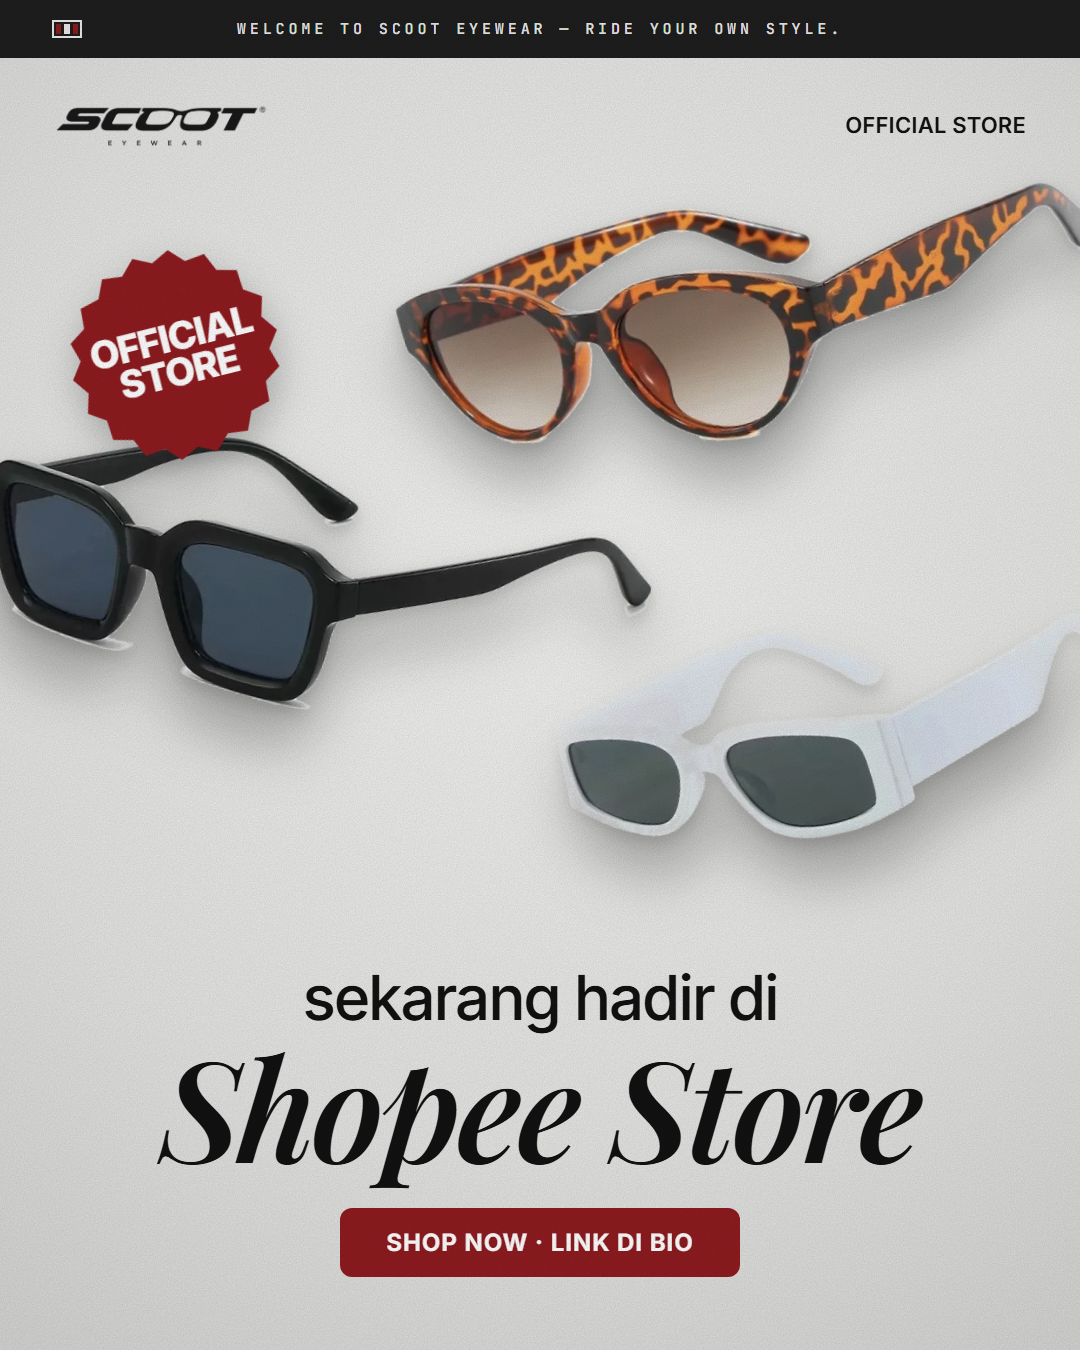
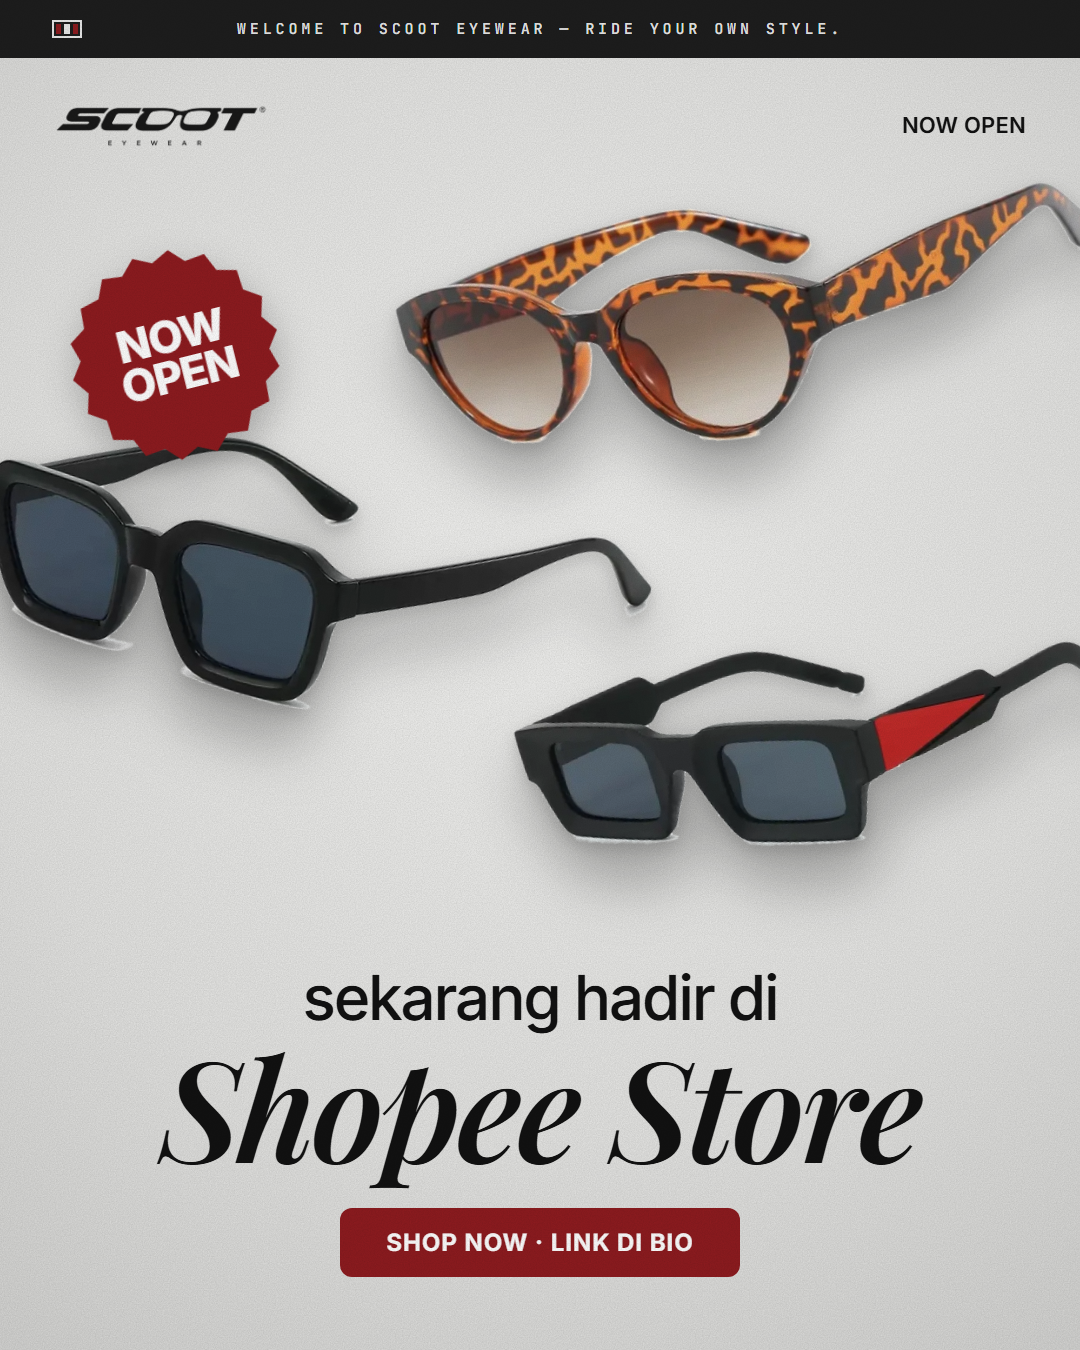
Shopee store is live: link it on the site and in the posts
- Header, footer and contact page link to the Shopee store.
- Product pages get a "Beli di Shopee" button pointing at that model's
  listing (six models live so far), falling back to the store.
- Where-to-shop post now says Shopee is open; the Shopee post drops the
  "Official Store" badge (not a Shopee Mall shop) and shows only models
  that are actually listed.

Changed region(s): [[0.4583, 0.4667, 1.0, 0.6533], [0.0611, 0.2178, 0.2444, 0.3111], [0.7944, 0.0622, 0.9472, 0.1244]]

diff --git a/frontend/src/pages/Contact.tsx b/frontend/src/pages/Contact.tsx
@@ -2,6 +2,8 @@ import { ArrowRight, Mail, MessageCircle } from "lucide-react";
 import { useState } from "react";
 import type { FormEvent } from "react";
 import { toast } from "sonner";
+import { SiShopee } from "@icons-pack/react-simple-icons";
+import { SHOPEE_STORE_URL } from "@/lib/catalog";
 import SiteFooter from "@/components/SiteFooter";
 import SiteHeader from "@/components/SiteHeader";
 
@@ -9,5 +11,5 @@ export default function Contact() {
   const [name, setName] = useState("");
   const [message, setMessage] = useState("");
   const submit = (event: FormEvent<HTMLFormElement>) => { event.preventDefault(); if (!name.trim() || !message.trim()) { toast.error("Lengkapi nama dan pesan terlebih dahulu."); return; } window.open(`https://wa.me/6285156581959?text=${encodeURIComponent(`Halo SCOOT EYEWEAR, saya ${name}. ${message}`)}`, "_blank", "noopener,noreferrer"); };
-  return <div className="bg-[#f9f9f7] text-black" data-testid="contact-page"><SiteHeader /><main><section className="border-b border-black px-6 py-16 sm:px-12 lg:px-20 lg:py-28" data-testid="contact-hero"><p className="font-mono text-[10px] font-bold uppercase tracking-[0.2em] text-[#c8102e]" data-testid="contact-eyebrow">Ada yang ingin ditanyakan?</p><h1 className="mt-6 max-w-4xl font-heading text-6xl font-bold uppercase leading-[0.8] tracking-[-0.1em] sm:text-9xl" data-testid="contact-heading">Kami siap<br />membantu.</h1><p className="mt-8 max-w-xl text-lg leading-relaxed text-[#666]" data-testid="contact-description">Hubungi kami untuk pertanyaan produk, custom print, pesanan grosir, atau rekomendasi model.</p></section><section className="grid gap-12 border-b border-black px-6 py-16 sm:px-12 lg:grid-cols-[0.8fr_1.2fr] lg:px-20 lg:py-24"><div className="space-y-8" data-testid="contact-channels"><a href="https://wa.me/6285156581959" target="_blank" rel="noreferrer" className="flex items-start gap-4 border-t border-black pt-5" data-testid="contact-whatsapp-link"><MessageCircle size={20} /><span><strong className="block font-heading text-2xl uppercase tracking-[-0.05em]">WhatsApp</strong><span className="mt-2 block text-sm text-[#666]">0851 5658 1959 · balasan tercepat</span></span></a><a href="mailto:hello@scooteyewear.id" className="flex items-start gap-4 border-t border-black pt-5" data-testid="contact-email-link"><Mail size={20} /><span><strong className="block font-heading text-2xl uppercase tracking-[-0.05em]">Email</strong><span className="mt-2 block text-sm text-[#666]">hello@scooteyewear.id</span></span></a></div><form onSubmit={submit} className="border-t border-black pt-5" data-testid="contact-form"><label className="font-mono text-[10px] font-bold uppercase tracking-[0.15em]" htmlFor="contact-name" data-testid="contact-name-label">Nama</label><input id="contact-name" value={name} onChange={(event) => setName(event.target.value)} placeholder="Nama kamu" className="mt-3 w-full border-b border-black bg-transparent py-3 text-sm outline-none focus:border-[#c8102e]" data-testid="contact-name-input" /><label className="mt-8 block font-mono text-[10px] font-bold uppercase tracking-[0.15em]" htmlFor="contact-message" data-testid="contact-message-label">Pesan</label><textarea id="contact-message" value={message} onChange={(event) => setMessage(event.target.value)} rows={5} placeholder="Apa yang ingin kamu tanyakan?" className="mt-3 w-full resize-none border-b border-black bg-transparent py-3 text-sm outline-none focus:border-[#c8102e]" data-testid="contact-message-input" /><button type="submit" className="mt-8 inline-flex items-center gap-3 bg-black px-5 py-4 font-mono text-[10px] font-bold uppercase tracking-[0.16em] text-white hover:bg-[#c8102e]" data-testid="contact-submit-button">Kirim via WhatsApp <ArrowRight size={15} /></button></form></section></main><SiteFooter /></div>;
+  return <div className="bg-[#f9f9f7] text-black" data-testid="contact-page"><SiteHeader /><main><section className="border-b border-black px-6 py-16 sm:px-12 lg:px-20 lg:py-28" data-testid="contact-hero"><p className="font-mono text-[10px] font-bold uppercase tracking-[0.2em] text-[#c8102e]" data-testid="contact-eyebrow">Ada yang ingin ditanyakan?</p><h1 className="mt-6 max-w-4xl font-heading text-6xl font-bold uppercase leading-[0.8] tracking-[-0.1em] sm:text-9xl" data-testid="contact-heading">Kami siap<br />membantu.</h1><p className="mt-8 max-w-xl text-lg leading-relaxed text-[#666]" data-testid="contact-description">Hubungi kami untuk pertanyaan produk, custom print, pesanan grosir, atau rekomendasi model.</p></section><section className="grid gap-12 border-b border-black px-6 py-16 sm:px-12 lg:grid-cols-[0.8fr_1.2fr] lg:px-20 lg:py-24"><div className="space-y-8" data-testid="contact-channels"><a href="https://wa.me/6285156581959" target="_blank" rel="noreferrer" className="flex items-start gap-4 border-t border-black pt-5" data-testid="contact-whatsapp-link"><MessageCircle size={20} /><span><strong className="block font-heading text-2xl uppercase tracking-[-0.05em]">WhatsApp</strong><span className="mt-2 block text-sm text-[#666]">0851 5658 1959 · balasan tercepat</span></span></a><a href="mailto:hello@scooteyewear.id" className="flex items-start gap-4 border-t border-black pt-5" data-testid="contact-email-link"><Mail size={20} /><span><strong className="block font-heading text-2xl uppercase tracking-[-0.05em]">Email</strong><span className="mt-2 block text-sm text-[#666]">hello@scooteyewear.id</span></span></a><a href={SHOPEE_STORE_URL} target="_blank" rel="noreferrer" className="flex items-start gap-4 border-t border-black pt-5" data-testid="contact-shopee-link"><SiShopee size={20} /><span><strong className="block font-heading text-2xl uppercase tracking-[-0.05em]">Shopee</strong><span className="mt-2 block text-sm text-[#666]">Belanja langsung di toko Shopee kami · bisa custom logo/tulisan</span></span></a></div><form onSubmit={submit} className="border-t border-black pt-5" data-testid="contact-form"><label className="font-mono text-[10px] font-bold uppercase tracking-[0.15em]" htmlFor="contact-name" data-testid="contact-name-label">Nama</label><input id="contact-name" value={name} onChange={(event) => setName(event.target.value)} placeholder="Nama kamu" className="mt-3 w-full border-b border-black bg-transparent py-3 text-sm outline-none focus:border-[#c8102e]" data-testid="contact-name-input" /><label className="mt-8 block font-mono text-[10px] font-bold uppercase tracking-[0.15em]" htmlFor="contact-message" data-testid="contact-message-label">Pesan</label><textarea id="contact-message" value={message} onChange={(event) => setMessage(event.target.value)} rows={5} placeholder="Apa yang ingin kamu tanyakan?" className="mt-3 w-full resize-none border-b border-black bg-transparent py-3 text-sm outline-none focus:border-[#c8102e]" data-testid="contact-message-input" /><button type="submit" className="mt-8 inline-flex items-center gap-3 bg-black px-5 py-4 font-mono text-[10px] font-bold uppercase tracking-[0.16em] text-white hover:bg-[#c8102e]" data-testid="contact-submit-button">Kirim via WhatsApp <ArrowRight size={15} /></button></form></section></main><SiteFooter /></div>;
 }

diff --git a/frontend/src/lib/catalog.ts b/frontend/src/lib/catalog.ts
@@ -18,6 +18,8 @@ export interface Product {
   images: string[];
   collection: string;
   index: string;
+  /** Item id of this model's Shopee listing, once it is live there. */
+  shopeeItemId?: string;
 }
 
 export interface CartItem {
@@ -48,6 +50,11 @@ export const priceOf = (product: Pick<Product, "price" | "openingPrice">, at: Da
 export const isDiscounted = (product: Pick<Product, "price" | "openingPrice">, at: Date = new Date()) =>
   priceOf(product, at) < product.price;
 export const WHATSAPP_NUMBER = "6285156581959";
+export const SHOPEE_SHOP_ID = "71768025";
+export const SHOPEE_STORE_URL = `https://shopee.co.id/shop/${SHOPEE_SHOP_ID}`;
+/** Link to the model's Shopee listing, or to the whole store while it is not listed yet. */
+export const shopeeUrl = (product?: Pick<Product, "shopeeItemId">) =>
+  product?.shopeeItemId ? `https://shopee.co.id/product/${SHOPEE_SHOP_ID}/${product.shopeeItemId}` : SHOPEE_STORE_URL;
 
 // Originals live in public/Belisima series; scripts/normalize_products.py writes trimmed,
 // centred 1000×1000 copies to public/catalog so every frame shows at the same scale.
@@ -106,7 +113,7 @@ export const products: Product[] = [
       variant("TP", 7, "A _ Brill", "BRILL TP.JPG", "Putih"),
     ],
     description: "Model Brill dari Belisima Series.",
-    images: [image("A _ Brill", "BRILL BL.JPG")], collection: "BELISIMA SERIES", index: "01",
+    images: [image("A _ Brill", "BRILL BL.JPG")], collection: "BELISIMA SERIES", index: "01", shopeeItemId: "49371928958",
   },
   {
     id: "ocala", name: "Ocala", price: 120000, openingPrice: 100000,
@@ -119,7 +126,7 @@ export const products: Product[] = [
       variant("WD", 22, "B _ Ocala", "OCALA WD.JPG"),
     ],
     description: "Model Ocala dari Belisima Series.",
-    images: [image("B _ Ocala", "OCALA BB.JPG")], collection: "BELISIMA SERIES", index: "02",
+    images: [image("B _ Ocala", "OCALA BB.JPG")], collection: "BELISIMA SERIES", index: "02", shopeeItemId: "54621826127",
   },
   {
     id: "casama", name: "Casama", price: 130000, openingPrice: 110000,
@@ -134,7 +141,7 @@ export const products: Product[] = [
       variant("TI", 20, "C _ casama", "CASAMA TI.JPG"),
     ],
     description: "Model Casama dari Belisima Series.",
-    images: [image("C _ casama", "CASAMA BL .JPG")], collection: "BELISIMA SERIES", index: "03",
+    images: [image("C _ casama", "CASAMA BL .JPG")], collection: "BELISIMA SERIES", index: "03", shopeeItemId: "50471893262",
   },
   {
     id: "brazz", name: "Brazz", price: 130000, openingPrice: 100000,
@@ -147,7 +154,7 @@ export const products: Product[] = [
       variant("TP", 0, "D _ Brazz", "Brazz TP.JPG"),
     ],
     description: "Model Brazz dari Belisima Series.",
-    images: [image("D _ Brazz", "Brazz BB.JPG")], collection: "BELISIMA SERIES", index: "04",
+    images: [image("D _ Brazz", "Brazz BB.JPG")], collection: "BELISIMA SERIES", index: "04", shopeeItemId: "40186896908",
   },
   {
     id: "duble", name: "Duble", price: 120000, openingPrice: 100000,
@@ -161,7 +168,7 @@ export const products: Product[] = [
       variant("TC", 23, "E _ duble", "DUBLE TC.JPG"), variant("TI", 0, "E _ duble", "DUBLE TI.JPG"),
     ],
     description: "Model Duble dari Belisima Series.",
-    images: [image("E _ duble", "DUBLE BL.JPG")], collection: "BELISIMA SERIES", index: "05",
+    images: [image("E _ duble", "DUBLE BL.JPG")], collection: "BELISIMA SERIES", index: "05", shopeeItemId: "50221861741",
   },
   {
     id: "kurera", name: "Kurera", price: 130000, openingPrice: 100000,
@@ -175,7 +182,7 @@ export const products: Product[] = [
       variant("WH", 0, "F _ kurera", "KUKERA WH.JPG"),
     ],
     description: "Model Kurera dari Belisima Series.",
-    images: [image("F _ kurera", "KUKERA BL.JPG")], collection: "BELISIMA SERIES", index: "06",
+    images: [image("F _ kurera", "KUKERA BL.JPG")], collection: "BELISIMA SERIES", index: "06", shopeeItemId: "55071876623",
   },
   {
     id: "tropic", name: "Tropic", price: 140000, openingPrice: 100000,

diff --git a/frontend/src/components/SiteFooter.tsx b/frontend/src/components/SiteFooter.tsx
@@ -1,6 +1,8 @@
 import { ArrowUpRight, Instagram, MessageCircle } from "lucide-react";
 import { Link } from "react-router-dom";
+import { SiShopee } from "@icons-pack/react-simple-icons";
 import BrandMark from "@/components/BrandMark";
+import { SHOPEE_STORE_URL } from "@/lib/catalog";
 
 export default function SiteFooter() {
   return (
@@ -23,6 +25,7 @@ export default function SiteFooter() {
             <p className="font-mono text-[10px] uppercase tracking-[0.2em] text-white/60" data-testid="footer-contact-label">Stay in touch</p>
             <a className="mt-5 flex w-fit items-center gap-2 font-mono text-xs uppercase tracking-[0.1em] hover:text-[#ff4b4b]" href="https://wa.me/6285156581959" target="_blank" rel="noreferrer" data-testid="footer-whatsapp-link"><MessageCircle size={14} /> WhatsApp ↗</a>
             <a className="mt-3 flex w-fit items-center gap-2 font-mono text-xs uppercase tracking-[0.1em] hover:text-[#ff4b4b]" href="https://www.instagram.com/scoot.eyewear/" target="_blank" rel="noreferrer" aria-label="Instagram SCOOT Eyewear (@scoot.eyewear)" data-testid="footer-instagram-link"><Instagram size={14} /> @scoot.eyewear ↗</a>
+            <a className="mt-3 flex w-fit items-center gap-2 font-mono text-xs uppercase tracking-[0.1em] hover:text-[#ff4b4b]" href={SHOPEE_STORE_URL} target="_blank" rel="noreferrer" aria-label="Toko Shopee SCOOT Eyewear" data-testid="footer-shopee-link"><SiShopee size={14} /> Shopee ↗</a>
             <div className="mt-8 inline-flex rounded-sm bg-white px-3 py-2" data-testid="footer-brand-mark">
               <BrandMark to="" compact />
             </div>

diff --git a/frontend/src/pages/ProductDetail.tsx b/frontend/src/pages/ProductDetail.tsx
@@ -16,6 +16,7 @@ import {
   useSearchParams,
 } from "react-router-dom";
 import { toast } from "sonner";
+import { SiShopee } from "@icons-pack/react-simple-icons";
 import SiteFooter from "@/components/SiteFooter";
 import SiteHeader from "@/components/SiteHeader";
 import PriceTag from "@/components/PriceTag";
@@ -31,6 +32,7 @@ import {
   priceOf,
   productById,
   whatsappUrl,
+  shopeeUrl,
 } from "@/lib/catalog";
 
 export default function ProductDetail() {
@@ -541,6 +543,15 @@ export default function ProductDetail() {
               data-testid="product-whatsapp-button"
             >
               Tanya via WhatsApp ↗
+            </a>
+            <a
+              href={shopeeUrl(product)}
+              target="_blank"
+              rel="noreferrer"
+              className="mt-3 flex w-full items-center justify-center gap-3 border border-[#ee4d2d] px-5 py-4 font-mono text-[10px] font-bold uppercase tracking-[0.16em] text-[#ee4d2d] transition-colors hover:bg-[#ee4d2d] hover:text-white"
+              data-testid="product-shopee-button"
+            >
+              <SiShopee size={14} /> {product.shopeeItemId ? "Beli di Shopee ↗" : "Lihat toko Shopee ↗"}
             </a>
             <div
               className="mt-10 divide-y divide-black/15 border-y border-black/15"

diff --git a/frontend/src/components/SiteHeader.tsx b/frontend/src/components/SiteHeader.tsx
@@ -3,7 +3,8 @@ import { useState } from "react";
 import { Link, NavLink } from "react-router-dom";
 import { useCartCount } from "@/lib/cart";
 import BrandMark from "@/components/BrandMark";
-import { formatPrice, isOpeningPromo, OPENING_PROMO_LABEL, priceOf, products } from "@/lib/catalog";
+import { SiShopee } from "@icons-pack/react-simple-icons";
+import { formatPrice, isOpeningPromo, OPENING_PROMO_LABEL, priceOf, products, SHOPEE_STORE_URL } from "@/lib/catalog";
 
 const navItems = [
 	{ label: "Katalog", to: "/katalog/" },
@@ -45,6 +46,15 @@ export default function SiteHeader() {
 						data-testid="header-support-link"
 					>
 						<MessageCircle size={12} /> WhatsApp support ↗
+					</a>
+					<a
+						className="hidden items-center gap-1 underline underline-offset-4 sm:flex"
+						href={SHOPEE_STORE_URL}
+						target="_blank"
+						rel="noreferrer"
+						data-testid="header-shopee-link"
+					>
+						<SiShopee size={12} /> Kini di Shopee ↗
 					</a>
 				</div>
 			</div>

diff --git a/marketing/instagram/build_posts.py b/marketing/instagram/build_posts.py
@@ -194,7 +194,7 @@ def launch_custom():
 
 
 def launch_order():
-    rows = [("Website", "Link di bio"), ("WhatsApp", "0851 5658 1959"), ("Shopee", "Segera hadir"), ("Custom", "+Rp15.000/pcs")]
+    rows = [("Website", "Link di bio"), ("WhatsApp", "0851 5658 1959"), ("Shopee", "Sudah buka"), ("Custom", "+Rp15.000/pcs")]
     table = "".join(f"<div><span class='k'>{k}</span><span class='v'>{v}</span></div>" for k, v in rows)
     return page(f"""
 <img class='logo' src='{LOGO}'>
@@ -239,11 +239,11 @@ def custom_steps():
 def shopee():
     return page(f"""
 <img class='logo' src='{LOGO}'>
-<div class='abs small' style='right:54px;top:112px'>Official store</div>
+<div class='abs small' style='right:54px;top:112px'>Now open</div>
 {img('b-ocala/ocala-ld', 400, 200, 700, -8, 12)}
 {img('d-brazz/brazz-bl', -30, 450, 680, 8, 14)}
-{img('h-satvale/satvale-wh', 560, 620, 560, -12, 13)}
-{badge('Official<br>store', 70, 250, 210, -14, 38)}
+{img('f-kurera/kukera-br', 520, 640, 600, -10, 13)}
+{badge('Now<br>open', 70, 250, 210, -14, 44)}
 <div class='abs center' style='left:0;right:0;top:960px'>
   <div style='font-family:Inter;font-weight:500;font-size:62px;letter-spacing:-0.035em'>sekarang hadir di</div>
   <div class='serif' style='font-size:140px;margin-top:4px'>Shopee Store</div>
